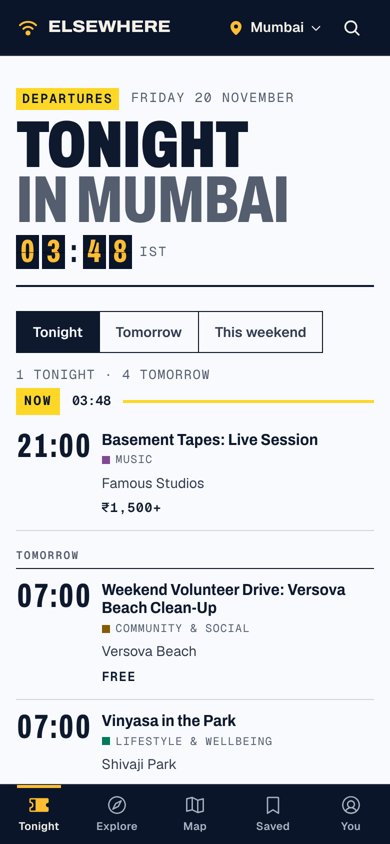
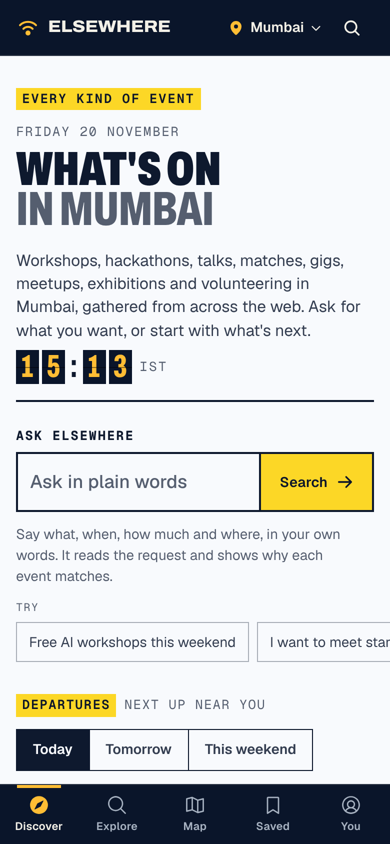
docs: README for 3.0 (screenshots, widening, pin previews)
Claude-Session: https://claude.ai/code/session_014Xn2eJWxkH1VanR4Fa3Gdy

Changed region(s): [[0.0308, 0.0924, 0.9846, 0.9858], [0.7077, 0.7393, 1.0, 0.7701]]

diff --git a/frontend/README.md b/frontend/README.md
@@ -1,14 +1,14 @@
 # Elsewhere: the frontend
 
-Everything happening in your city, set out like a timetable you can act on.
+Everything happening in your city, in every category, set out like a timetable you can act on. Ask for it in plain words.
 
 <p>
-  <img src="docs/home-day.png" alt="Elsewhere home by day: TONIGHT IN MUMBAI set large, a split-flap clock, and tonight's events as timetable rows with a yellow NOW line" width="49%" />
+  <img src="docs/home-day.png" alt="Elsewhere home by day: WHAT'S ON IN MUMBAI set large, the Ask Elsewhere search, and the next departures as timetable rows with a yellow NOW line" width="49%" />
   <img src="docs/home-night.png" alt="The same home page after 18:00, as a lit departure board in deep blue and amber" width="49%" />
 </p>
 
 <p>
-  <img src="docs/phone-day.png" alt="Elsewhere on a phone by day: the masthead, the split-flap clock and tonight's departures" width="24%" />
+  <img src="docs/phone-day.png" alt="Elsewhere on a phone by day: the masthead, the clock and Ask Elsewhere" width="24%" />
   <img src="docs/phone-night.png" alt="The same phone screen at night, on the lit departure board" width="24%" />
 </p>
 
@@ -17,8 +17,8 @@ Elsewhere gathers gigs, workshops, matches, meetups and free walks from ticketin
 ## What you can do
 
 - **Discover** (`/`): what's on in your city, in every category. Ask Elsewhere in plain words ("I want to meet startup founders", "free AI workshops this weekend"); beside it, the departures board of what's next with a live NOW line. Below: headliners, starting soon, every category as a line, collections by plan (learn something, meet people, get moving), the weekend, free entry.
-- **Explore** (`/explore`, `/categories/<slug>`): every listing with filters for category, mood, date, price, format (in person or online) and distance; removable chips for whatever is in force; 24 at a time. A plain-words request shows what it understood and, on each ticket, why the event matches.
-- **Map** (`/map`): the city at night. Busy areas cluster into numbered markers in their category colour; pointing at an event in the list lifts its pin; a timeline shows what is on at any hour; travel times and a phone card strip.
+- **Explore** (`/explore`, `/categories/<slug>`): every listing with filters for category, mood, date, price, format (in person or online) and distance; removable chips for whatever is in force; sort by best match, soonest, lowest price or nearest; 24 at a time. A plain-words request shows what it understood and, on each ticket, why the event matches; when the exact ask comes back thin, it offers to let one part go (any date, paid too, any kind of event) with how many events each adds.
+- **Map** (`/map`): the city at night. Busy areas cluster into numbered markers in their category colour; pointing at an event in the list lifts its pin, and pointing at a pin previews its title, time and price; a timeline shows what is on at any hour; travel times and a phone card strip.
 - **Keep it**: save events, get reminders, add to your calendar, plan a day around them (`/plan-my-day`), collect passport stamps, replay your month (`/recap`).
 - **Go with friends** (with an account): profiles, friends, who's going, lists and "who's free?" polls.
 
